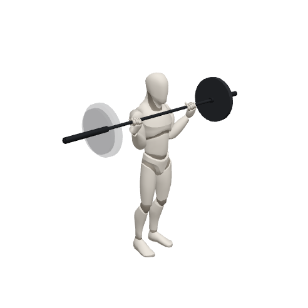
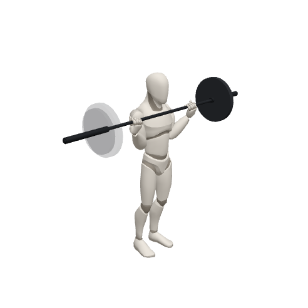
El agarre, por fin: los dedos se enrollan y el pulgar va a la superficie
A tamaño de miniatura la mano parecía un puño. A tamaño completo era una mano APOYADA sobre la
barra, con los dedos estirados por encima y un muñón —el pulgar— asomando entre el índice y el
corazón. Ahí estaba el "sigue mal".

Dos cambios, y los dos consisten en dejar de suponer:

1. EL SENTIDO DEL CIERRE SE PRUEBA, NO SE SUPONE. Doblar un dedo es girarlo alrededor de un eje, y
   acertar ese eje con convenios —la X del hueso, el signo de la mano, la normal de la palma— sale
   bien en una mano y mal en la otra, porque el esqueleto no está espejado como uno supone. Aquí se
   han estrellado cuatro intentos. Lo que no falla es mirar el resultado: de los dos sentidos
   posibles se toma el que ACERCA la punta del dedo a lo que se agarra. Y se decide una vez por
   mano, no en cada falange: decidirlo en cada una parecía más listo y desenrollaba el dedo a
   mitad de camino, porque en cuanto la punta llega al mango los dos sentidos la alejan y el
   desempate sale por décimas.

   Con algo en la mano el eje es el del propio mango: enrollarse alrededor de un cilindro es girar
   alrededor de su eje. Sin nada que agarrar, el dedo se dobla hacia la palma y punto.

2. EL PULGAR VA A LA SUPERFICIE DE LA BARRA, no a su centro. Apuntándolo al centro se metía dentro
   del puño. El punto se calcula desde la base del propio pulgar: se proyecta sobre el eje de la
   barra y se sale un radio hacia fuera, así que acierta esté donde esté la mano.
[…]

diff --git a/src/figura/cinematica.js b/src/figura/cinematica.js
@@ -685,7 +685,7 @@ function posarPierna(esq, pose, l, Fpelvis, anotar, avisos) {
  * dobla mucho los nudillos y la falange media, y poco la punta. El pulgar va aparte y menos, porque
  * se opone al resto en lugar de curvarse con ellos.
  */
-const CURVA_DEDOS = { falange: [55, 70, 40], pulgar: [38, 36, 22] };
+const CURVA_DEDOS = { falange: [55, 70, 40], pulgar: [20, 24, 16] };
 
 /**
  * Cierra los dedos alrededor del agarre. 0 = mano abierta, 1 = cerrada del todo.
@@ -710,24 +710,61 @@ function cerrarMano(esq, l, cierre, ejeAgarre, puntoAgarre) {
   const marcoMano = mano.getWorldQuaternion(new Quaternion()).multiply(esq.neutra.get(mano).clone().invert());
   const palma = new Vector3(-SIGNO[l], 0, 0).applyQuaternion(marcoMano);
 
+  /*
+   * EL SENTIDO DEL CIERRE NO SE SUPONE: SE PRUEBA.
+   *
+   * Aquí se han estrellado cuatro intentos, todos por lo mismo. Doblar un dedo es girarlo alrededor
+   * de un eje, y acertar ese eje a base de convenios —la X del hueso, el signo de la mano, la normal
+   * de la palma— sale bien en una mano y mal en la otra, porque el esqueleto no está espejado como
+   * uno supone. Lo que no falla es mirar el resultado: de los dos sentidos posibles, el bueno es el
+   * que ACERCA la punta del dedo a lo que se está agarrando.
+   *
+   * Con algo en la mano, el eje es el del propio mango: enrollarse alrededor de un cilindro es
+   * girar alrededor de su eje, y ahí el dedo pasa de rozarlo a envolverlo. Sin nada que agarrar
+   * —la plancha, el puente— no hay a qué acercarse: el dedo se dobla hacia la palma y punto.
+   */
+  const sentidoDe = (h, ejeMundo, angulo, objetivo) => {
+    const mundo = h.getWorldQuaternion(new Quaternion());
+    const base = h.getWorldPosition(new Vector3());
+    const largoHueso = 0.03;
+    const dir = new Vector3(0, 1, 0).applyQuaternion(mundo);
+    const cerca = (signo) => {
+      const punta = dir.clone()
+        .applyQuaternion(new Quaternion().setFromAxisAngle(ejeMundo, signo * angulo * GRAD))
+        .multiplyScalar(largoHueso).add(base);
+      const d = punta.clone().sub(objetivo);
+      return ejeAgarre ? d.clone().addScaledVector(ejeAgarre, -d.dot(ejeAgarre)).length() : d.length();
+    };
+    return cerca(1) <= cerca(-1) ? 1 : -1;
+  };
+
+  let sentido = 0;
   for (const h of esq.huesos[`falanges_${l}`]) {
     const pulgar = h.name.includes('thumb');
     const n = Number(h.name.match(/0(\d)/)[1]) - 1;
 
     /*
-     * LA PRIMERA FALANGE DEL PULGAR SE APUNTA AL AGARRE. Las otras dos se curvan detrás.
-     *
-     * Girar el pulgar entero alrededor del eje del mango no basta, y probarlo costó tres vueltas:
-     * con un sentido salía bien la mano izquierda y con el otro la derecha, nunca las dos. El
-     * motivo es que el pulgar no arranca en la misma orientación relativa en las dos manos, así que
-     * el mismo giro las deja en sitios distintos. Apuntarlo resuelve las dos a la vez sin saber
-     * nada de cómo está montado el esqueleto: se le dice adónde tiene que mirar y mira.
+     * La primera falange del pulgar se APUNTA al agarre: no basta con doblarlo, porque se opone al
+     * resto y hay que llevarlo antes a donde está el mango.
      */
     if (pulgar && puntoAgarre && n === 0) {
       const padre = h.parent.getWorldQuaternion(new Quaternion());
       const mundo = h.getWorldQuaternion(new Quaternion());
       const actual = new Vector3(0, 1, 0).applyQuaternion(mundo);
-      const deseada = puntoAgarre.clone().sub(h.getWorldPosition(new Vector3()));
+      /*
+       * Apuntando al CENTRO del agarre, el pulgar se metía dentro del puño y asomaba entre el índice
+       * y el corazón. Un pulgar no va al centro de la barra: va a su SUPERFICIE, por el lado por el
+       * que llega. Ese punto se calcula desde la base del propio pulgar —se proyecta sobre el eje y
+       * se sale un radio hacia fuera—, así que sale bien esté donde esté la mano.
+       */
+      const base = h.getWorldPosition(new Vector3());
+      let destino = puntoAgarre.clone();
+      if (ejeAgarre) {
+        const sobreEje = puntoAgarre.clone().addScaledVector(ejeAgarre, base.clone().sub(puntoAgarre).dot(ejeAgarre));
+        const haciaFuera = base.clone().sub(sobreEje);
+        if (haciaFuera.lengthSq() > 1e-8) destino = sobreEje.addScaledVector(haciaFuera.normalize(), RADIO_BARRA + 0.012);
+      }
+      const deseada = destino.sub(base);
       if (deseada.lengthSq() > 1e-8) {
         const giro = new Quaternion().setFromUnitVectors(actual, deseada.normalize());
         h.quaternion.copy(padre.invert().multiply(giro.multiply(mundo)));
@@ -736,17 +773,31 @@ function cerrarMano(esq, l, cierre, ejeAgarre, puntoAgarre) {
       continue;
     }
 
-    let ejeDedo = new Vector3(1, 0, 0);
-    if (pulgar) {
-      const mundo = h.getWorldQuaternion(new Quaternion());
-      const giro = ejeAgarre
-        ? ejeAgarre.clone().multiplyScalar(-SIGNO[l])
-        : new Vector3().crossVectors(palma, new Vector3(0, 1, 0).applyQuaternion(mundo));
-      if (giro.lengthSq() > 1e-6) ejeDedo = giro.normalize().applyQuaternion(mundo.invert());
-    }
-    h.quaternion.multiply(eje(ejeDedo, CURVA_DEDOS[pulgar ? 'pulgar' : 'falange'][n] * cierre));
+    const angulo = CURVA_DEDOS[pulgar ? 'pulgar' : 'falange'][n] * cierre;
+    const mundo = h.getWorldQuaternion(new Quaternion());
+    const dir = new Vector3(0, 1, 0).applyQuaternion(mundo);
+
+    // El eje alrededor del que gira: el del mango si hay algo agarrado, si no el que lleva a la palma.
+    let ejeMundo = ejeAgarre ? ejeAgarre.clone() : new Vector3().crossVectors(dir, palma);
+    if (ejeMundo.lengthSq() < 1e-8) continue;
+    ejeMundo.normalize();
+
+    /*
+     * El sentido se decide UNA VEZ POR MANO, con la primera falange, y vale para todas.
+     *
+     * Decidirlo en cada falange parecía más listo y era peor: en cuanto una punta llega al mango,
+     * los dos sentidos la alejan, el desempate sale por décimas y el dedo se desenrolla a mitad de
+     * camino. Un dedo se cierra entero hacia el mismo lado o no se cierra.
+     */
+    if (sentido === 0) sentido = sentidoDe(h, ejeMundo, angulo, puntoAgarre ?? h.getWorldPosition(new Vector3()).addScaledVector(palma, 0.05));
+    const ejeDedo = ejeMundo.multiplyScalar(sentido).applyQuaternion(mundo.clone().invert());
+    h.quaternion.multiply(eje(ejeDedo, angulo));
+    // La siguiente falange lee su dirección en el mundo: sin actualizar, la lee sin el giro de su
+    // padre y el dedo sale en abanico en vez de enrollado.
+    h.updateMatrixWorld(true);
   }
 }
+
 
 
 
